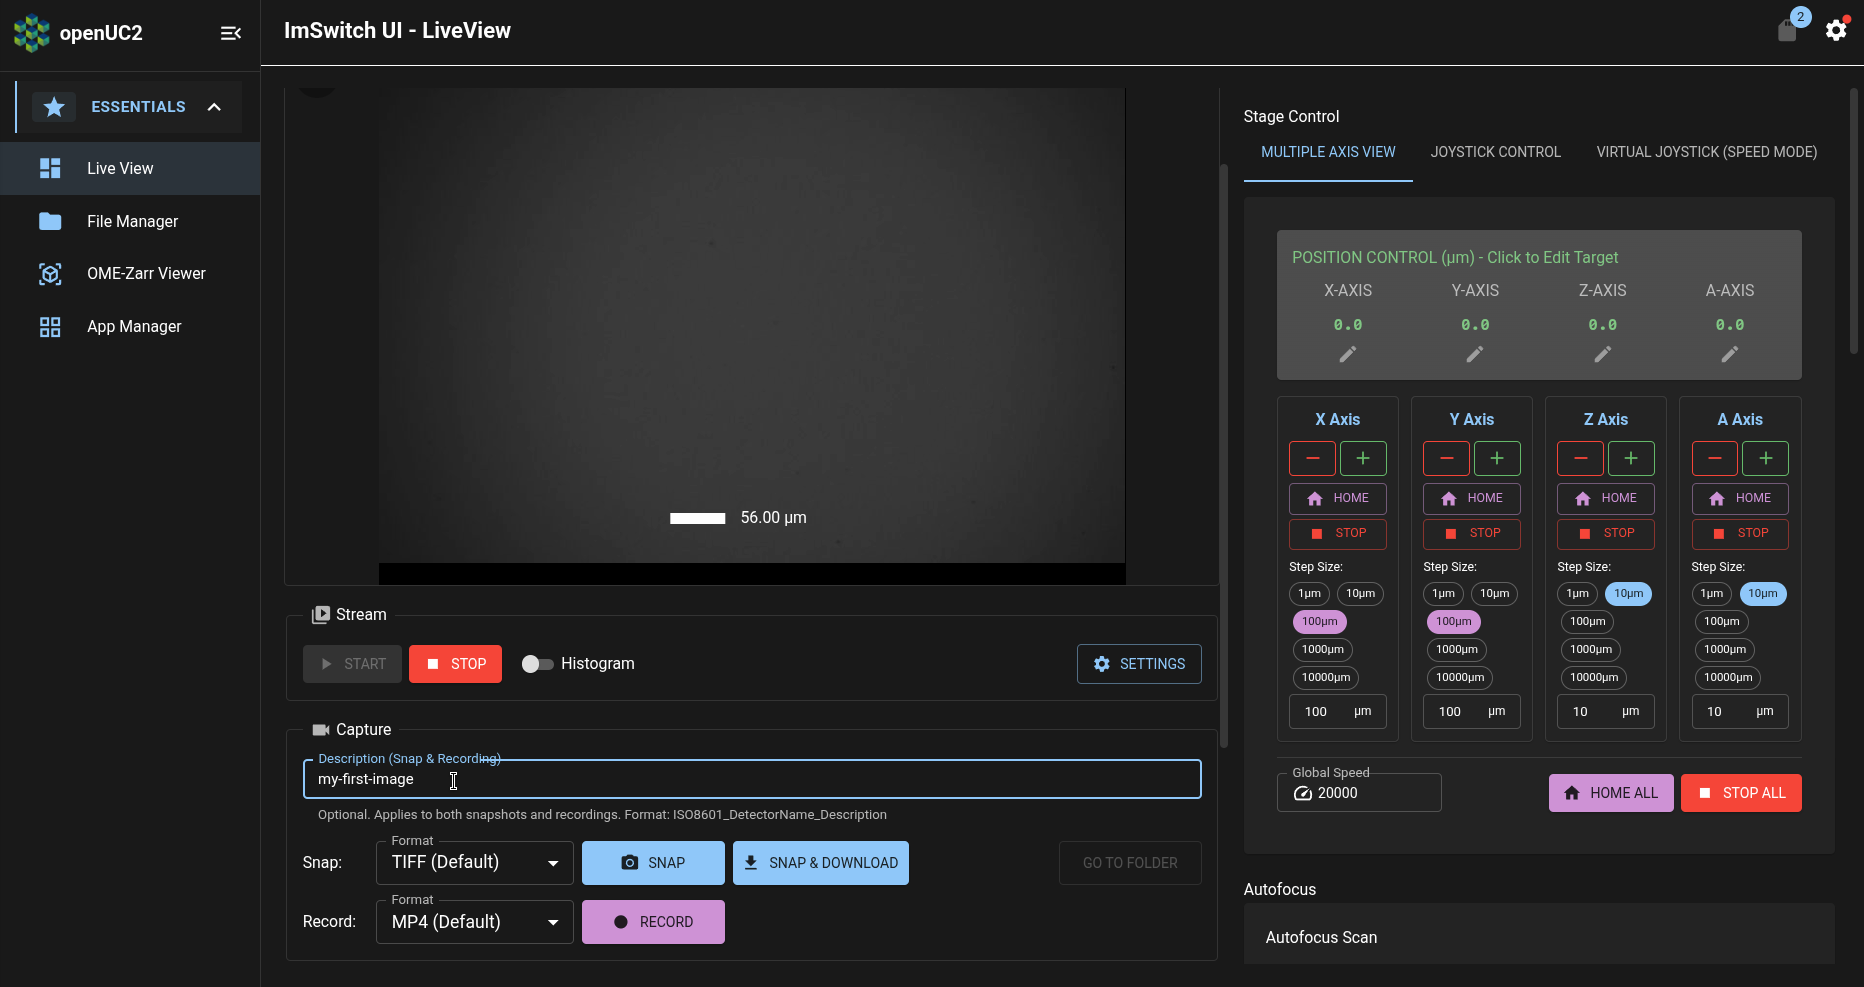
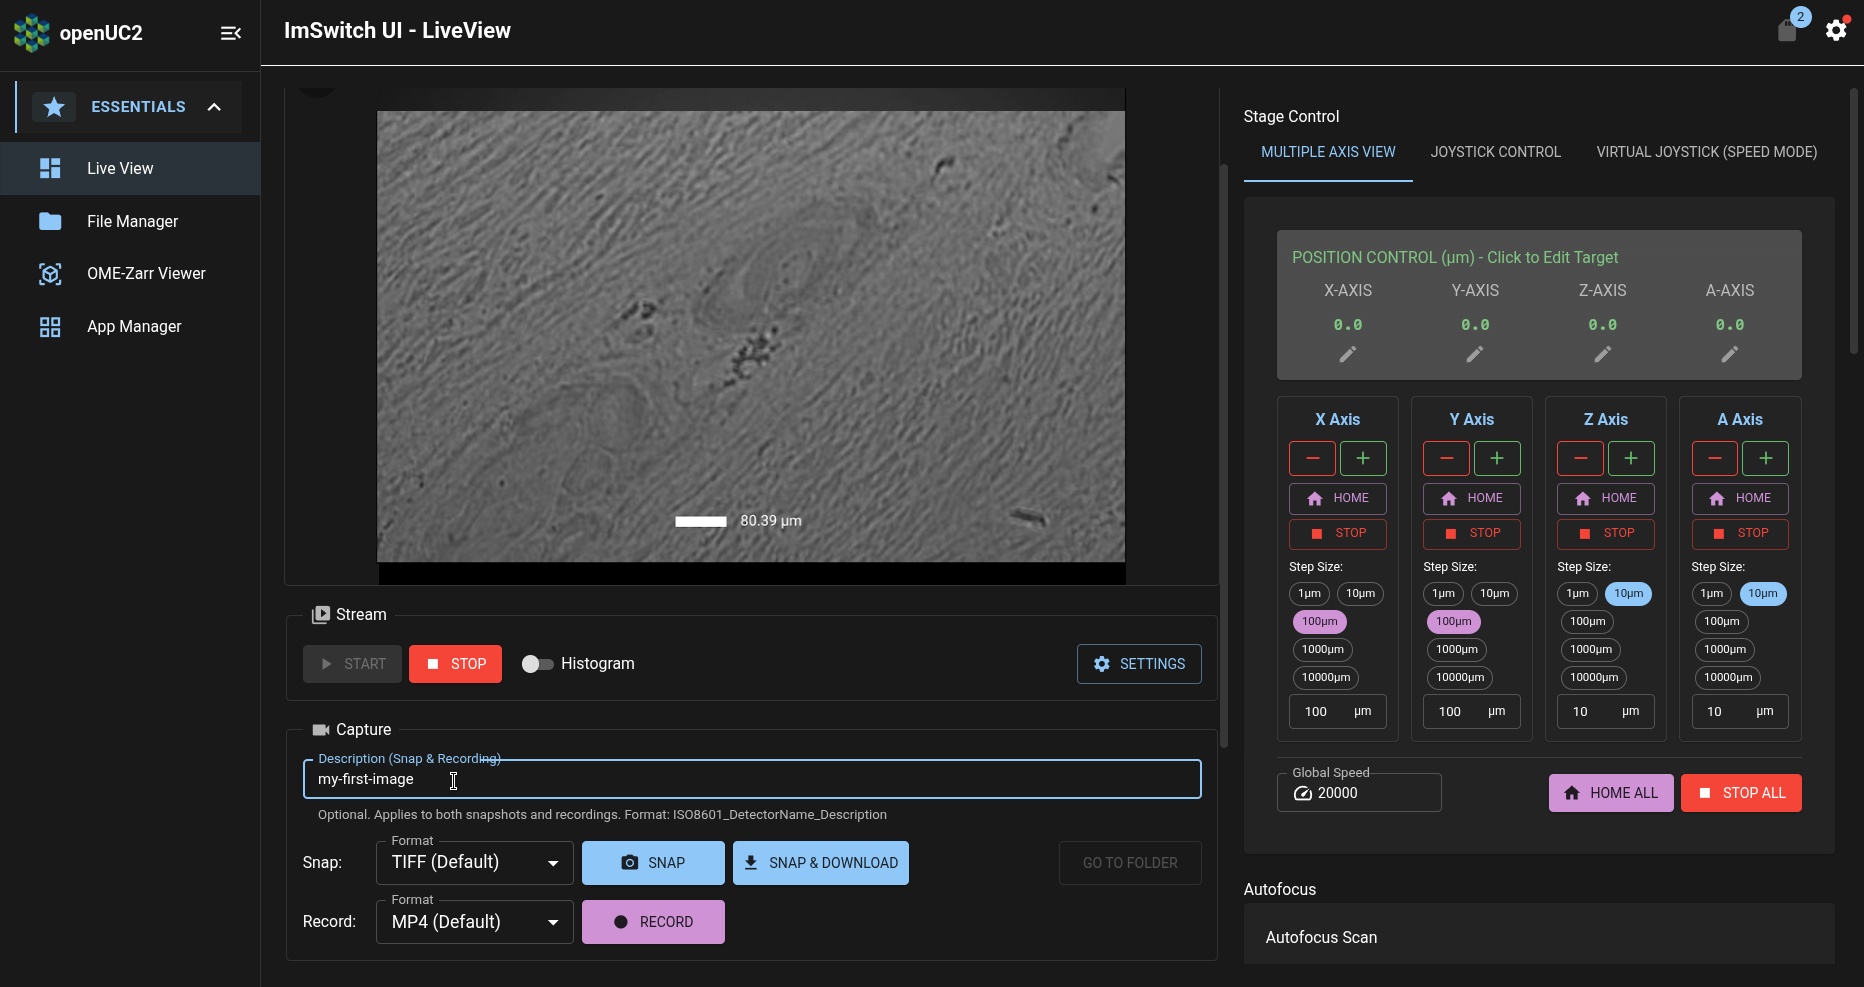
Add day-1 tutorial for inserting & positioning the first sample (#50)
This PR adds some missing sections of the day-1 "first sample" tutorial.

This work is tracked on Notion at
https://www.notion.so/Publish-first-draft-of-Day-1-docs-for-customers-3064e612c78a80c5a6e2ec59ade2344d?source=copy_link

Changed region(s): [[0.1867, 0.0912, 0.6223, 0.5775]]

diff --git a/docs/usage/pro/frame/tutorials/day-1/first-sample/README.md b/docs/usage/pro/frame/tutorials/day-1/first-sample/README.md
@@ -9,6 +9,43 @@ Now that you've [confirmed that your FRAME was not damaged during shipping](../o
 In this tutorial, we will preview, save, and view our first images of a microscopy sample.
 Along the way, we will use the FRAME's ImSwitch app for microscopy, and we will see how to adjust imaging settings in ImSwitch's Live View page.
 
+## Insert your first sample
+
+Depending on the specific FRAME hardware configuration you purchased from openUC2, your FRAME will come with a preinstalled sample holder for holding either well plates or microscope slides:
+
+![sample holders](./sample-holders.jpg)
+
+In the above image, we can see a well plate holder on the left and a microscope slide holder on the right.
+
+In our day-2 tutorials we'll learn how to [change the sample holders](../../day-2/reconfigure/sample-holder.md), but for now you should insert a sample matching the sample holder which has been preinstalled in your FRAME:
+
+- if your FRAME has a slide holder, continue to the tutorial section for [inserting a microscope slide](#on-a-microscope-slide)
+- if your FRAME has a well-plate holder, continue to the tutorial section for [inserting a well plate](#on-a-well-plate)
+
+### on a microscope slide
+
+Take a microscope slide with a sample and place it on one of the slots of the slide holder like in the below sequence of images:
+
+| Insert into flat edge | Pull back spring-loaded mechanism | Insert into spring-loaded edge |
+| --------------------- | --------------------------------- | ------------------------------ |
+| ![slide holder: insert into flat edge](./slide-holder-insert-flat-edge.jpg) | ![slide holder: pull back spring-loaded mechanism](./slide-holder-insert-pull-spring.jpg) | ![slide holder: insert into spring-loaded edge](./slide-holder-insert-spring-edge.jpg) |
+
+As we can see above, first one shorter edge of the microscope slide is placed against the flat edge of the slide slot; and then a finger pulls back the spring-loaded edge at the other end of the slot; and then the other shorter edge of the microscope slide is dropped into the spring-loaded edge of the slot.
+Now you can let go of the spring-loaded edge:
+![slide holder: let go of spring-loaded edge](./slide-holder-insert-let-go.jpg)
+
+Now that we've inserted your first sample on a microscope slide, we can continue to the tutorial section to [position your sample for imaging](#position-your-first-sample).
+
+### on a well plate
+
+Take a well plate with a sample and place its A1 corner into the corner with the spring-loaded button, and then push the opposite corner of the well plate into the well-plate holder:
+
+| Insert into corner with button | Insert into opposite corner |
+| ------------------------------ | --------------------------- |
+| ![well-plate holder: insert into corner with button](./well-plate-holder-insert-button.jpg) | ![well-plate holder: insert into opposite corner](./well-plate-holder-insert-opposite-corner.jpg) |
+
+Now that we've inserted your first sample on a well plate, we can continue to the tutorial section to [position your sample for imaging](#position-your-first-sample).
+
 ## Open the live viewer
 
 The basic interface for exploring microscopy samples and adjusting imaging settings is ImSwitch's Live View page.
@@ -19,16 +56,87 @@ Once you open the Live View page, it will look something like this:
 
 ![ImSwitch app: Live View page](./imswitch-live-view.png)
 
-In the center of the above screenshot, under the "WIDEFIELDCAMERA" tab, we can see a preview camera stream from your FRAME's main camera.
+In the center of the above screenshot, under the "WIDEFIELDCAMERA" tab, we can see a camera preview stream from your FRAME's main camera.
 This preview stream has red indicator (which says "LIVE - 16.0 FPS" in the above screenshot) in its upper-right corner which indicates whether the preview is a live preview, as well as the framerate of the preview stream.
 
-## Insert your first sample
+## Position your first sample
 
-TODO: how should the customer safely insert a slide or wellplate into the microscope, without the slide falling into the microscope?
+Now we'll adjust the FRAME stage's position to bring your sample into the view of the camera preview stream.
 
-## Explore your first sample
+### Turn on illumination
 
-TODO: how should the customer reposition the sample so that the sample will be in the view of the objective lens? How should the customer turn on the appropriate light source to view the sample? How should the customer choose and set good light settings (light source intensity, exposure time, camera gain)?
+First, we'll need to illuminate the sample.
+In the right column of the Live View page, which has the "Stage Control" and "Autofocus" sections, scroll down to the "Illumination" section:
+
+![ImSwitch app: Live View page: Illumination section](./imswitch-live-view-illumination.png)
+
+Now uncheck the checkbox for 488 nm fluorescence illumination, and check the checkbox for LED illumination, and adjust the slider for LED illumination to 1023 for maximum illumination intensity:
+
+![ImSwitch app: Live View page: Illumination section: LED illumination](./imswitch-live-view-illumination-led.png)
+
+Now you should see light shining on your objective lens:
+
+![slide holder: illuminated objective lens ](./slide-holder-objective-illuminated.jpg)
+
+### Adjust exposure
+
+Next, we'll need to adjust the camera's exposure time setting.
+In the main column of the Live View page, which has the camera preview stream, scroll down to the "Detector Parameters" section:
+
+![ImSwitch app: Live View page: Detector Parameters section](./imswitch-live-view-detector-parameters.png)
+
+Then adjust the exposure time as needed to get an image in the camera preview stream which is neither too bright nor too dark:
+
+![ImSwitch app: Live View page: Detector Parameters section: exposure](./imswitch-live-view-detector-parameters-exposure.png)
+
+In the above screenshot, the exposure time has been set to 0.5 milliseconds.
+The optimal exposure setting will depend on the specific camera in your FRAME, but it should probably be below 10 milliseconds.
+Try to adjust the exposure so that the image in the camera preview stream is a moderate gray color:
+
+![ImSwitch app: Live View page: good exposure](./imswitch-live-view-good-exposure.png)
+
+### Adjust stage x-y position
+
+Now let's move the sample into the view of the camera.
+In the right column of the Live View page, scroll back up to the Stage Control section:
+
+![ImSwitch app: Live View page: Stage Control section](./imswitch-live-view-stage-control.png)
+
+Now repeatedly press the "+" and "-" buttons for the X Axis and the Y Axis to move the stage until the sample is over the objective lens:
+
+![ImSwitch app: Live View page: Stage Control section: position adjustment](./imswitch-live-view-stage-control-positioning.png)
+
+In the above screenshot, pressing the "+" button will move the X Axis by an increment of 100 micrometers.
+Do move the X Axis by larger increments, we can select a different step size to use for the "+" and "-" buttons:
+
+![ImSwiwtch app: Live View page: Stage Control section: position increment selection](./imswitch-live-view-stage-control-step-size.png)
+
+After enough adjustment of the positions of the X and Y axes, your sample should be located directly over the objective lens:
+
+![slide holder: sample over objective lens](./slide-holder-sample-over-objective.jpg)
+
+![ImSwitch app: Live View page: Stage Control section: positioned](./imswitch-live-view-stage-control-positioned.png)
+
+Your sample is probably still out-of-focus, so (like in the above screenshot) you probably still won't see anything meaningful in the camera preview stream.
+
+### Adjust stage focus
+
+Now let's bring your sample into focus, so that we can actually see something in the camera preview stream.
+
+First, we'll move the sample as far away from the objective lens as possible, by moving the Z Axis to its zero position.
+Click on the "Home" button:
+
+![ImSwitch app: Live View page: Stage Control section: Z-axis homing](./imswitch-live-view-stage-control-z-homing.png)
+
+If the Z Axis isn't already at its zero position, it will move until it reaches its zero position.
+
+Now we'll perform coarse focusing of our sample: select a Z-axis step size of 1000 micrometers, and repeatedly press the "+" button until you start to see something blurry in the camera preview:
+
+![ImSwitch app: Live View page: Stage Control section: coarse focusing](./imswitch-live-view-stage-control-coarse-focusing.png)
+
+Now we'll perform fine focusing of our sample: using Z-axis step sizes of 100 micrometers and then 10 micrometers, repeatedly press the "+" and "-" buttons until you see a sharp image in the camera preview:
+
+![ImSwitch app: Live View page: Stage Control section: focused](./imswitch-live-view-stage-control-focused.png)
 
 ## Save your first image
 

diff --git a/docs/usage/pro/frame/tutorials/day-2/reconfigure/sample-holder.md b/docs/usage/pro/frame/tutorials/day-2/reconfigure/sample-holder.md
@@ -1,0 +1,20 @@
+# Sample Holder
+
+## Remove your sample holder
+
+TODO
+
+## Insert a slide holder
+
+Place the slide holder on the FRAME's stage as shown in the below image, and then use your Allen wrench to secure the slide holder with one screw at each corner of the slide holder:
+
+![slide holder: screws](./slide-holder-screws.jpg)
+
+## Insert a well-plate holder
+
+First, place the well-plate holder on the FRAME's stage as shown in the below image (with the orientation shown in the below image), and then use your Allen wrench to secure the well-plate holder with one screw at each corner of the well-plate holder:
+
+![well-plate holder: screws](./well-plate-holder-screws.jpg)
+
+As we can see in the image above, three corners of the well-plate holder have flat surfaces, while the fourth corner has a small button attached to a spring-loaded mechanism which is secured with four screws.
+The well-plate holder should be oriented so that the corner with the button is closer to the rear of the FRAME, where the FRAME's illumination arm is mounted; that corner corresponds to your well plate's [corner notch (chamfer)](https://en.wikipedia.org/wiki/Microplate#Corner_notch) at the A1 position.

diff --git a/docs/usage/pro/frame/tutorials/day-1/README.md b/docs/usage/pro/frame/tutorials/day-1/README.md
@@ -10,8 +10,9 @@ If you're setting up a FRAME machine for the first time, you're in the right pla
 3. [determine](./operational-readiness/README.md) whether your FRAME hardware is fully operational, with no damage during shipping and delivery
 4. [acquire data](./first-sample/README.md) using your FRAME for the first time
 5. [set up remote assistance](./remote-assistance/README.md) so that you can receive direct help with your FRAME from openUC2 customer support
+6. [safely shut down](./shutdown/README.md) your FRAME for the first time, and then turn it back on
 
-Along the way, we will encounter some of your FRAME's web browser apps.
+Along the way, we will encounter some of web browser apps provided by your FRAME.
 
 :::info
 

diff --git a/docs/usage/pro/frame/tutorials/day-2/reconfigure/README.md b/docs/usage/pro/frame/tutorials/day-2/reconfigure/README.md
@@ -1,0 +1,5 @@
+---
+sidebar_label: Reconfigure
+---
+
+# Reconfigure the FRAME
